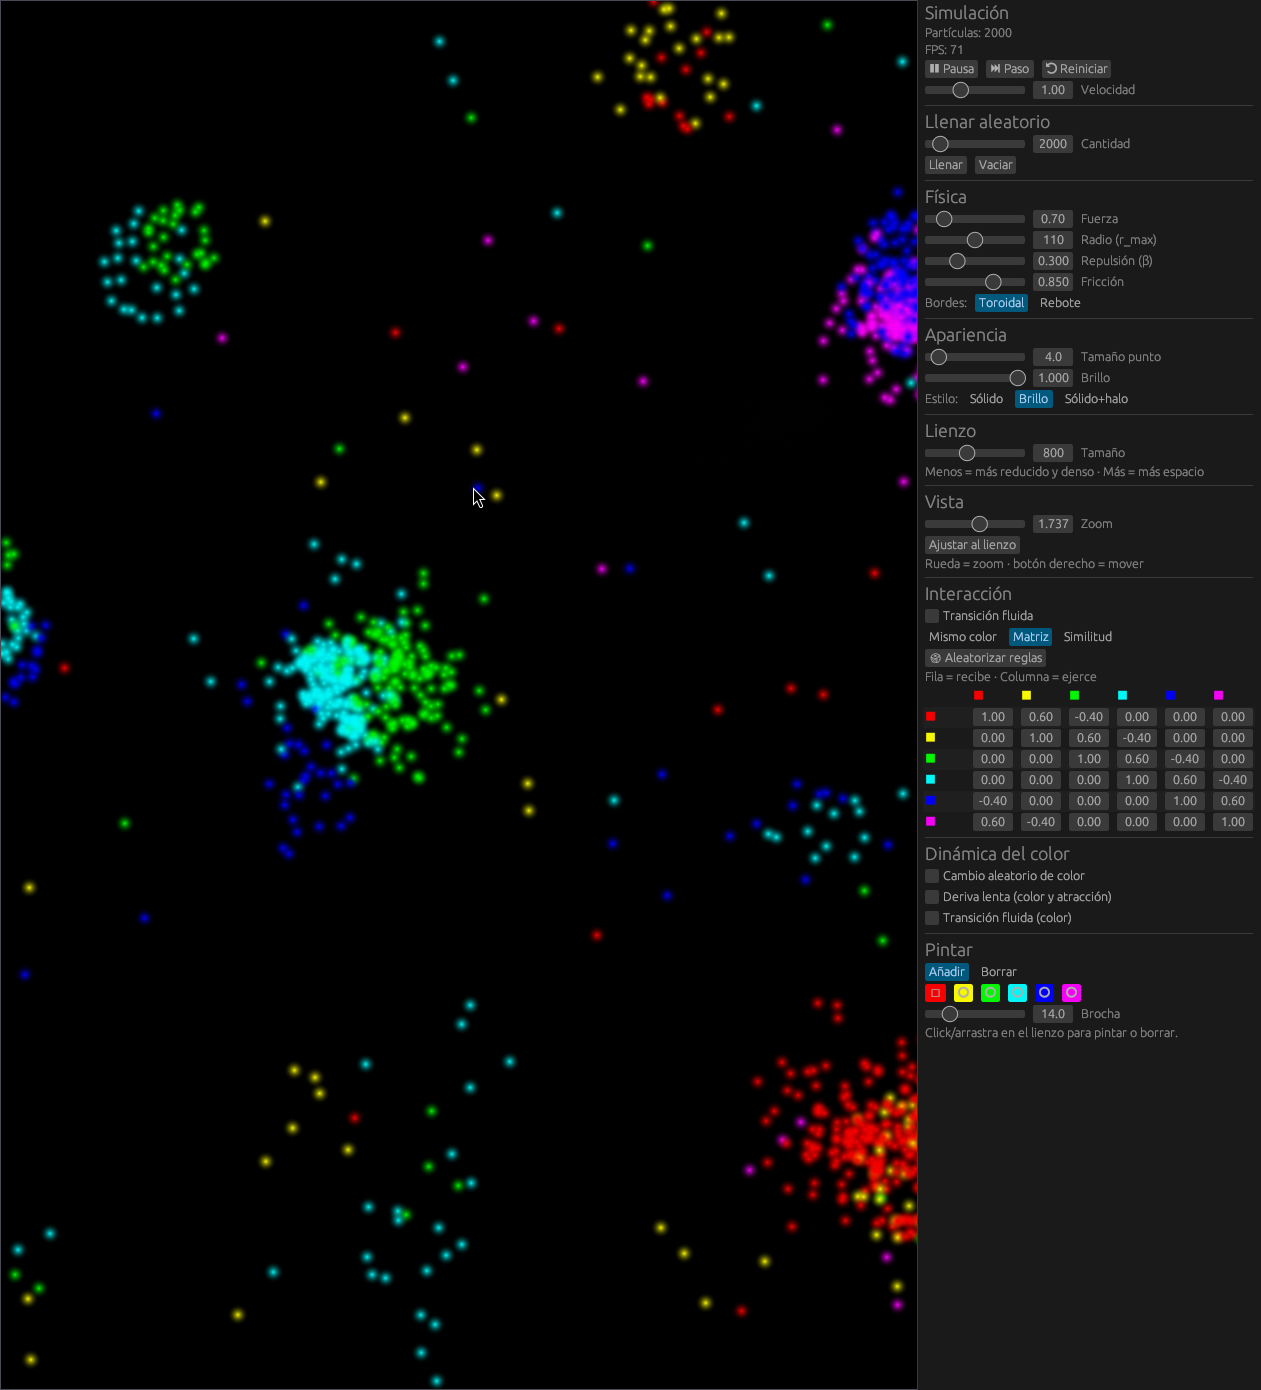
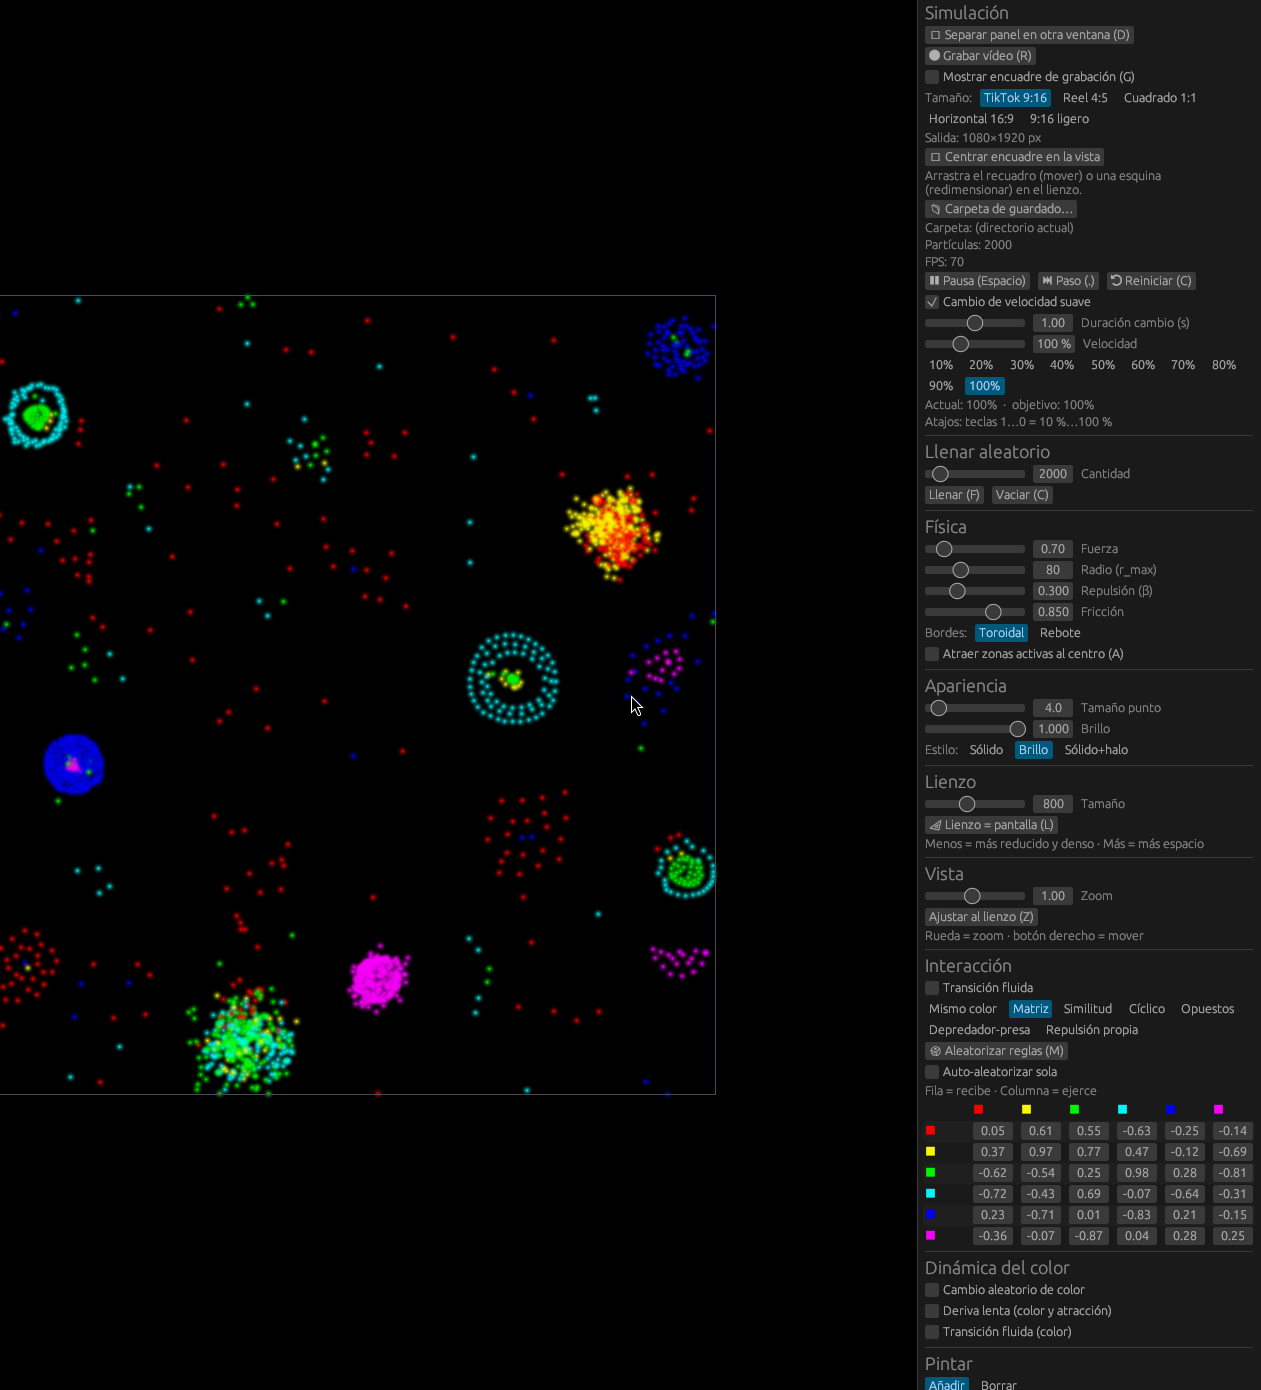
Agregar imagen del recuadro de encuadre 9:16 en el README.md y actualizar imágenes de inicio y matriz

diff --git a/README.md b/README.md
@@ -156,6 +156,8 @@ cargo test -p sim --release throughput -- --nocapture
 > XDG**; en Hyprland instala `xdg-desktop-portal` + un backend (p. ej. `xdg-desktop-portal-gtk`
 > o `-hyprland`). Sin portal, se guarda en el directorio actual.
 
+![Recuadro de encuadre 9:16 con rejilla de tercios sobre el lienzo, y el panel de control](docs/img/06-encuadre.png)
+
 ## Estructura del código
 
 | Archivo | Responsabilidad |